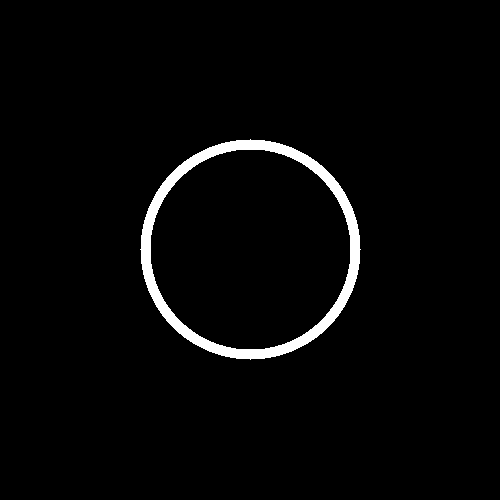
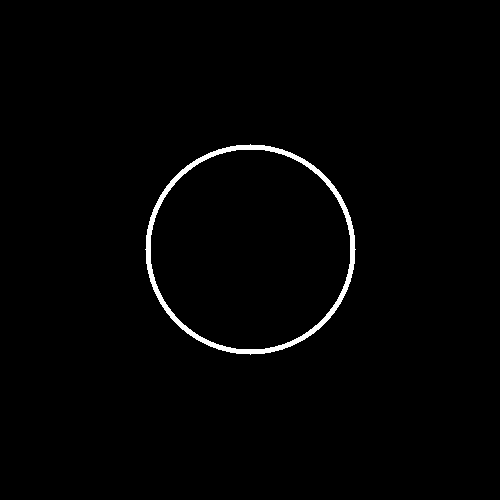
Début rosace

diff --git a/src/main.cpp b/src/main.cpp
@@ -194,16 +194,14 @@ void disk(sil::Image& image)
     }
 }
 
-void circle(sil::Image& image)
+void circle(sil::Image& image, float centreX, float centreY)
 {
     int width = image.width();
     int height = image.height();
 
-    float centreX = width / 2.f;
-    float centreY = height / 2.f;
 
     int rayonint = 100;
-    int rayonext = 110;
+    int rayonext = 105;
     for (int x{0}; x < width; x++){
     for (int y{0}; y < height; y++)
     {
@@ -212,6 +210,53 @@ void circle(sil::Image& image)
         float distance = std::sqrt(dx * dx + dy * dy);
 
         if (distance <= rayonext && distance >= rayonint) {
+                image.pixel(x, y) = glm::vec3(1.0f, 1.0f, 1.0f); 
+        }
+            
+    }
+    }
+}
+
+void disk_0(sil::Image& image)
+{
+    int width = image.width();
+    int height = image.height();
+
+    float centreX = 0;
+    float centreY = height / 2.f;
+
+    for (int x{0}; x < width; x++){
+    for (int y{0}; y < height; y++)
+    {
+        float dx = x - centreX;
+        float dy = y - centreY;
+        float distance = std::sqrt(dx * dx + dy * dy);
+
+        if (distance <= 150) {
+                image.pixel(x, y) = glm::vec3(1.0f, 1.0f, 1.0f); 
+            } else {
+                image.pixel(x, y) = glm::vec3(0.0f, 0.0f, 0.0f); 
+            }
+    }
+    }
+}
+
+void disk_1(sil::Image& image)
+{
+    int width = image.width();
+    int height = image.height();
+
+    float centreX = width;
+    float centreY = height / 2.f;
+
+    for (int x{0}; x < width; x++){
+    for (int y{0}; y < height; y++)
+    {
+        float dx = x - centreX;
+        float dy = y - centreY;
+        float distance = std::sqrt(dx * dx + dy * dy);
+
+        if (distance <= 150) {
                 image.pixel(x, y) = glm::vec3(1.0f, 1.0f, 1.0f); 
             } else {
                 image.pixel(x, y) = glm::vec3(0.0f, 0.0f, 0.0f); 
@@ -228,40 +273,13 @@ void rosace(sil::Image& image)
     float centreX = width / 2.f;
     float centreY = height / 2.f;
 
-    int rayonint = 100;
-    int rayonext = 110;
-    for (int x{0}; x < width; x++){
-    for (int y{0}; y < height; y++)
-    {
-        float dx = x - centreX;
-        float dy = y - centreY;
-        float distance = std::sqrt(dx * dx + dy * dy);
+    circle(image, centreX, centreY);
 
-        if (distance <= rayonext && distance >= rayonint) {
-                image.pixel(x, y) = glm::vec3(1.0f, 1.0f, 1.0f); 
-            } else {
-                image.pixel(x, y) = glm::vec3(0.0f, 0.0f, 0.0f); 
-            }
-    }
-    }
+    circle(image, centreX + 100, centreY);
 
-    float centreX = width / 4.f;
-    float centreY = height / 2.f;
-    for (int x{0}; x < width; x++){
-    for (int y{0}; y < height; y++)
-    {
-        float dx = x - centreX;
-        float dy = y - centreY;
-        float distance = std::sqrt(dx * dx + dy * dy);
 
-        if (distance <= rayonext && distance >= rayonint) {
-                image.pixel(x, y) = glm::vec3(1.0f, 1.0f, 1.0f); 
-            } else {
-                image.pixel(x, y) = glm::vec3(0.0f, 0.0f, 0.0f); 
-            }
-    }
-    }
 }
+
 int main()
 {
     {
@@ -335,9 +353,28 @@ int main()
     }
 
     {
+        
         sil::Image image{500, 500};
-        circle(image); 
+        circle(image, image.width()/2, image.height()/2); 
         image.save("output/circle.png");
+    }
+
+    {
+        sil::Image image{500, 500};
+        disk_0(image); 
+        image.save("output/disk_0.png");
+    }
+
+    {
+        sil::Image image{500, 500};
+        disk_1(image); 
+        image.save("output/disk_1.png");
+    }
+
+    {
+        sil::Image image{500, 500};
+        rosace(image); 
+        image.save("output/rosace.png");
     }
     
 }
